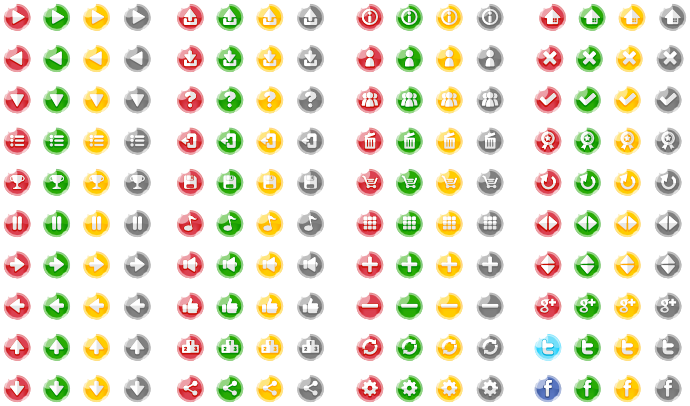
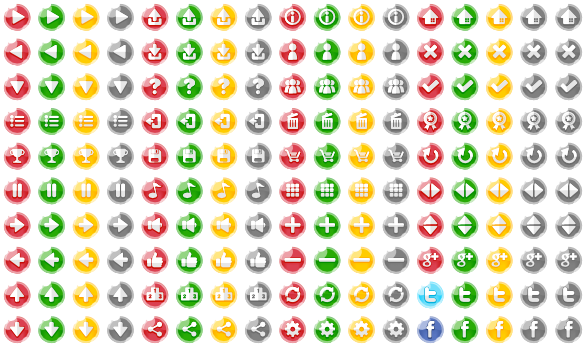
WIP, setting the game

diff --git a/js/saumya_game.js b/js/saumya_game.js
@@ -23,6 +23,8 @@
 // http://opengameart.org/content/glitch-sprite-assets-huge-collection
 	var gameEngine = {
 		game : null,
+		frameCounter: 2,
+		btnHome : null,
 		start : function(){
 			console.log('Game Engine : Start');
 			var a = $("#gameX");
@@ -32,17 +34,27 @@
 		},
 		preload : function(){
 			console.log('Phaser : preload');
-			this.game.load.image('buttons', 'img/game_ui_buttons.png');
+			//this.game.load.image('buttons', 'img/game_ui_buttons.png');
+			//this.game.load.spritesheet('buttons', 'img/game_ui_buttons.png',100,100);
+			this.game.load.spritesheet('buttons', 'img/game_ui_buttons.png',34.5,34.5);
 		},
 		create : function(){
 			console.log('Phaser : create');
-			this.game.add.sprite(100, 100, 'buttons');
+			var _this = this;
+			//this.btnHome = this.game.add.sprite(10,10,'buttons',12);
+			//this.btnHome.animations.add('btnHomeAnim',[12,13,14,15],1,true,true);
+			//
+			//var button = this.game.add.button(this.game.world.centerX - 95, 400, 'buttons', null, this, over, out, down,up);
+			this.btnHome = this.game.add.button(10, 10, 'buttons',this.onHomeClick,this,1,3,2,0);
 		},
 		update : function(){
-			console.log('Phaser : update');
+			//this.btnHome.animations.play('btnHomeAnim');
 		},
 		end : function(){
 			console.log('Game Engine : End');
+		},
+		onHomeClick: function(){
+			console.log('home click');
 		}
 	};
 })();
